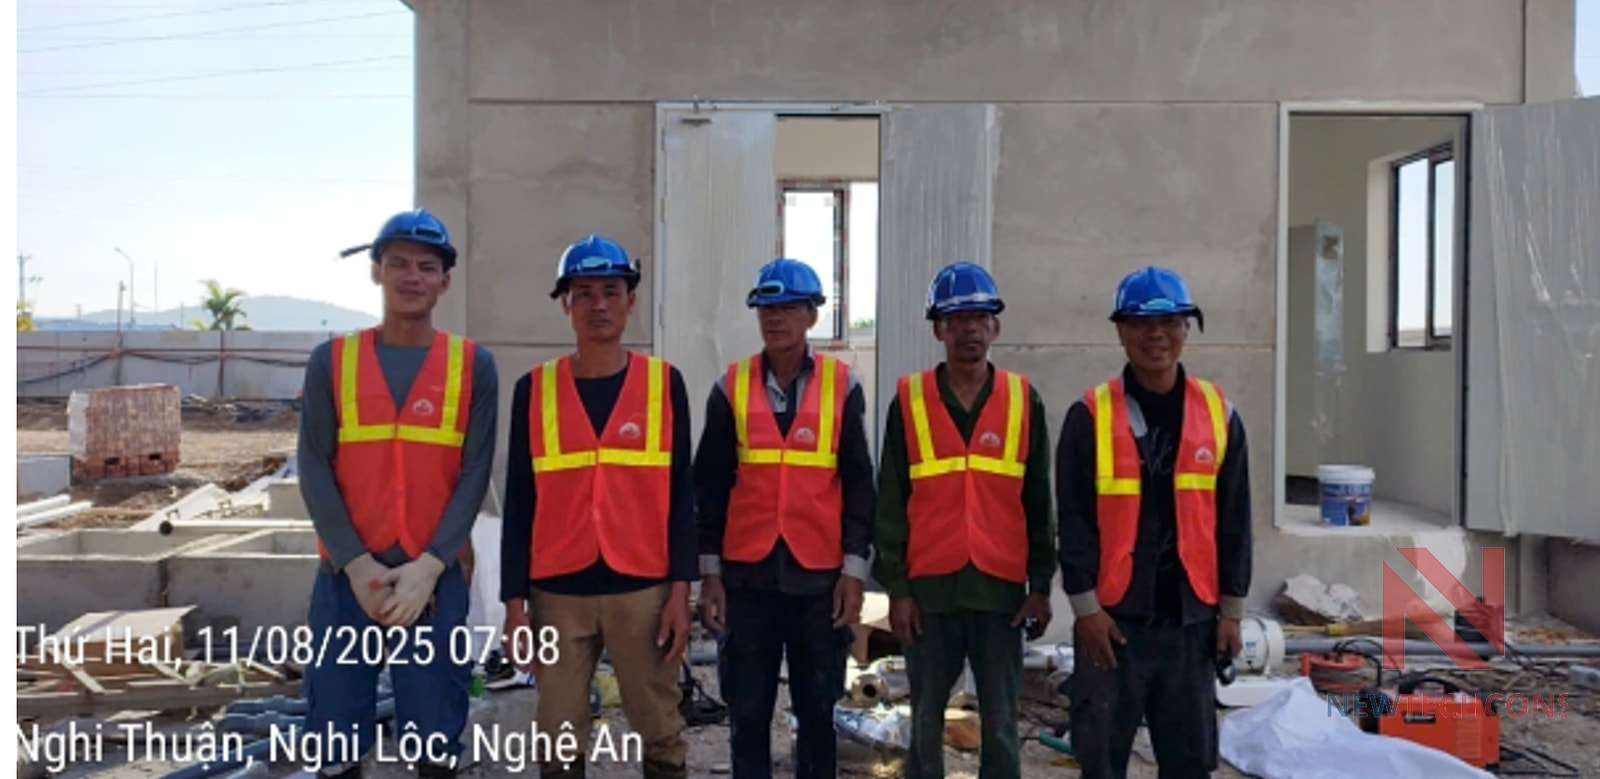
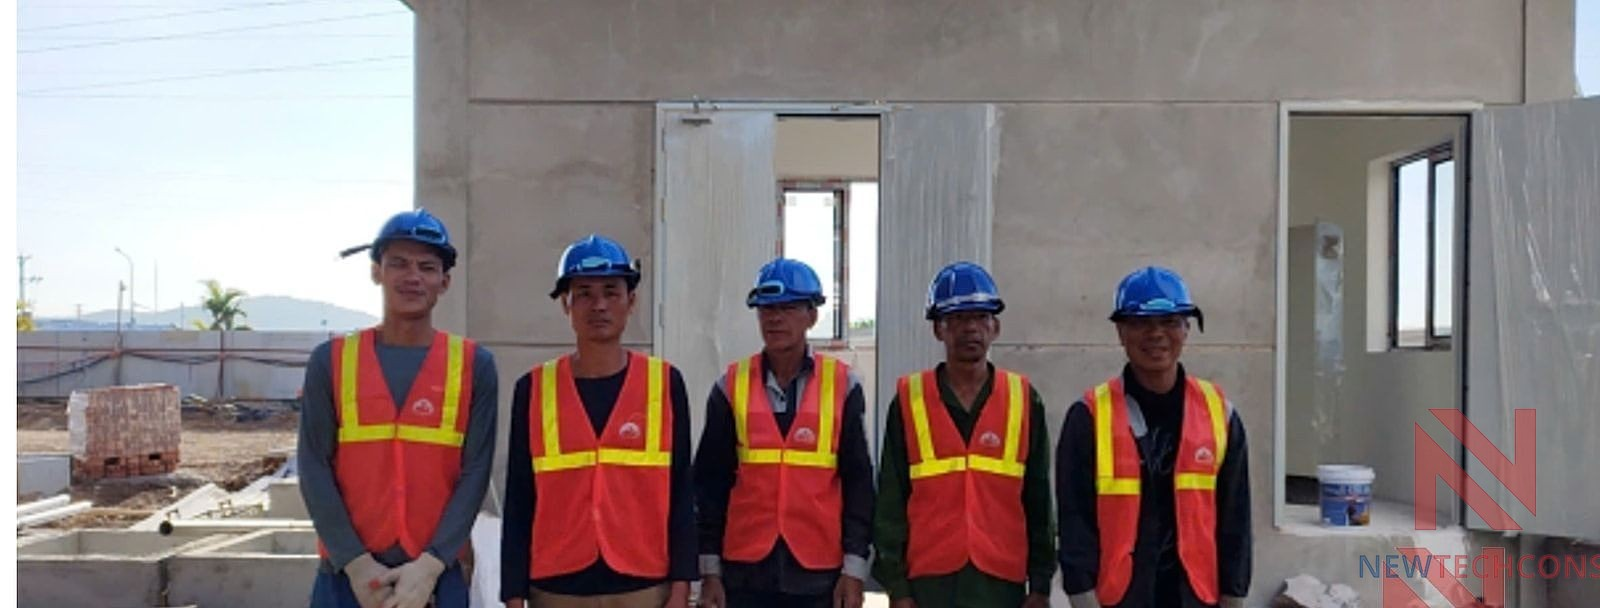
Khôi phục Thư viện ảnh bị mất do lỗi lưu objectlist qua /quan-tri
Khôi phục thuVienAnh cho 10 dự án bị lỗi xoá thành [] (Aeon Mall, Vigracela Tiên Sơn,
Arcana, An Đồng, nén gỗ Nghệ An, Goertek Vina, Giấy Thường Xuân, NADITEX, Topgoal,
Thuỷ sản Ngọc Sơn) — file ảnh gốc vẫn còn trên server, chỉ cần khôi phục tham chiếu.

Riêng 2 ảnh Topgoal và NADITEX: ảnh gốc còn dính mốc thời gian/định vị máy ảnh (ảnh
NADITEX còn bị lộn ngược 180°) nên xử lý lại — xoay đúng chiều, crop bỏ mốc thời
gian, làm nét, gắn lại watermark chuẩn trước khi khôi phục vào Thư viện ảnh.

diff --git a/src/content/du-an/xlnt-khu-do-thi-an-dong.md b/src/content/du-an/xlnt-khu-do-thi-an-dong.md
@@ -13,7 +13,9 @@ congNghe:
   - "Khử trùng trước khi xả ra hệ thống thoát nước đô thị"
 anhBia: "/images/uploads/1789726032319-z7185635179464-9eeade890b4213098304bf857d7201e7.jpg"
 anhBiaAlt: "Bể lắng tròn có cầu công tác trong hệ thống xử lý nước thải khu đô thị An Đồng"
-thuVienAnh: []
+thuVienAnh:
+  - duong_dan: "/images/du-an/an-dong-hoang-huy-anh-2.jpg"
+    alt: "Dòng nước sau xử lý chảy qua máng thu tại trạm xử lý nước thải khu đô thị An Đồng"
 noiBat: true
 thuTu: 3
 ---

diff --git a/src/content/du-an/txlnt-san-xuat-nha-may-arcana.md b/src/content/du-an/txlnt-san-xuat-nha-may-arcana.md
@@ -13,7 +13,9 @@ congNghe:
   - "Trung hoà & xử lý bùn"
 anhBia: "/images/uploads/1789726760756-1789616496528-2278372358357046712-4852401979920007281-e17d298262750c3f2197eca9ad7bafe2.jpg"
 anhBiaAlt: "Mô hình 3D hệ thống bồn xử lý nước thải sản xuất tại nhà máy Arcana"
-thuVienAnh: []
+thuVienAnh:
+  - duong_dan: "/images/du-an/arcana-anh-2.jpg"
+    alt: "Phối cảnh 3D toàn tuyến bồn xử lý nước thải nhà máy Arcana"
 noiBat: true
 thuTu: 6
 ---

diff --git a/src/content/du-an/xlnt-thuy-san-ngoc-son.md b/src/content/du-an/xlnt-thuy-san-ngoc-son.md
@@ -13,7 +13,9 @@ congNghe:
   - "Khử trùng"
 anhBia: "/images/uploads/1789726851438-7a0adea88fbd6de334ac.jpg"
 anhBiaAlt: "Hệ thống bể và đường ống xử lý nước thải chế biến hải sản Ngọc Sơn nhìn từ trên cao"
-thuVienAnh: []
+thuVienAnh:
+  - duong_dan: "/images/du-an/ngoc-son-anh-2.jpg"
+    alt: "Thi công kết cấu bể xử lý nước thải tại nhà máy chế biến hải sản Ngọc Sơn"
 noiBat: true
 thuTu: 5
 ---

diff --git a/src/content/du-an/xlnt-nha-may-giay-thuong-xuan.md b/src/content/du-an/xlnt-nha-may-giay-thuong-xuan.md
@@ -13,7 +13,9 @@ congNghe:
   - "Khử trùng"
 anhBia: "/images/uploads/1789811532549-img-2142.jpg"
 anhBiaAlt: "Dàn bơm định lượng hoá chất lắp trên tường tại trạm xử lý nước thải nhà máy Giấy Thường Xuân"
-thuVienAnh: []
+thuVienAnh:
+  - duong_dan: "/images/du-an/giay-thuong-xuan-anh-2.jpg"
+    alt: "Cầu công tác và hệ thống bể xử lý nước thải nhà máy Giấy Thường Xuân"
 noiBat: true
 thuTu: 7
 ---

diff --git a/src/content/du-an/xlnt-nha-may-naditex.md b/src/content/du-an/xlnt-nha-may-naditex.md
@@ -12,7 +12,9 @@ congNghe:
   - "Khử trùng"
 anhBia: "/images/uploads/1789825510873-1789825166891-1195297207156543023-1195297207156543023-2051d82f28effc7063f9a43df3e709ec.jpg"
 anhBiaAlt: "Thi công bể ngầm xử lý nước thải tại nhà máy NADITEX"
-thuVienAnh: []
+thuVienAnh:
+  - duong_dan: "/images/du-an/naditex-anh-2.jpg"
+    alt: "Thi công lắp đặt bể xử lý nước thải tại nhà máy NADITEX"
 noiBat: true
 thuTu: 10
 ---

diff --git a/src/content/du-an/xlnt-nha-may-dien-tu-goertek-vina.md b/src/content/du-an/xlnt-nha-may-dien-tu-goertek-vina.md
@@ -13,7 +13,9 @@ congNghe:
   - "Khử trùng"
 anhBia: "/images/uploads/1789726808555-8bd1d789409da2c3fb8c.jpg"
 anhBiaAlt: "Cụm bể xử lý nước thải với hệ thống bơm định lượng tại nhà máy Goertek Vina, KCN Quế Võ"
-thuVienAnh: []
+thuVienAnh:
+  - duong_dan: "/images/du-an/goertek-vina-anh-2.jpg"
+    alt: "Toàn cảnh bể xử lý nước thải sinh hoạt tại nhà máy Goertek Vina"
 noiBat: true
 thuTu: 4
 ---

diff --git a/src/content/du-an/he-thong-nuoc-sach-kcn-tien-son-vigracela.md b/src/content/du-an/he-thong-nuoc-sach-kcn-tien-son-vigracela.md
@@ -13,7 +13,9 @@ congNghe:
   - "Trạm bơm cấp nước"
 anhBia: "/images/uploads/1789825960095-img-20190125-103207.jpg"
 anhBiaAlt: "Cụm bồn lọc áp lực bằng thép trong hệ thống xử lý nước sạch KCN Tiên Sơn"
-thuVienAnh: []
+thuVienAnh:
+  - duong_dan: "/images/du-an/vigracela-tien-son-anh-2.jpg"
+    alt: "Khuôn viên trạm xử lý nước sạch KCN Tiên Sơn, Bắc Ninh"
 noiBat: true
 thuTu: 1
 ---

diff --git a/src/content/du-an/xlnt-nen-go-nghe-an.md b/src/content/du-an/xlnt-nen-go-nghe-an.md
@@ -13,7 +13,9 @@ congNghe:
   - "Khử trùng"
 anhBia: "/images/uploads/1789811789305-20200326-155209.jpg"
 anhBiaAlt: "Thi công lắp đặt bể xử lý nước thải ngầm tại nhà máy nén gỗ Nghệ An"
-thuVienAnh: []
+thuVienAnh:
+  - duong_dan: "/images/du-an/nen-go-nghe-an-anh-2.jpg"
+    alt: "Cụm thiết bị xử lý nước thải lắp đặt tại nhà máy nén gỗ Nghệ An"
 noiBat: true
 thuTu: 8
 ---

diff --git a/src/content/du-an/he-thong-nuoc-sach-aeon-mall.md b/src/content/du-an/he-thong-nuoc-sach-aeon-mall.md
@@ -13,7 +13,9 @@ congNghe:
   - "Trạm bơm cấp nước & PCCC"
 anhBia: "/images/uploads/1789723274627-aeon-mall-long-bien.jpg"
 anhBiaAlt: "Cụm bồn lọc nước sạch trên tầng mái công trình Aeon Mall"
-thuVienAnh: []
+thuVienAnh:
+  - duong_dan: "/images/du-an/aeon-mall-anh-2.jpg"
+    alt: "Phòng bơm chữa cháy và cấp nước tại công trình Aeon Mall"
 noiBat: true
 thuTu: 2
 ---

diff --git a/src/content/du-an/xlnt-nha-may-topgoal.md b/src/content/du-an/xlnt-nha-may-topgoal.md
@@ -13,7 +13,9 @@ congNghe:
   - "Khử trùng"
 anhBia: "/images/du-an/topgoal-anh-1.jpg"
 anhBiaAlt: "Công trình nhà máy Topgoal đang thi công tại KCN WHA Zone 1, Nghệ An"
-thuVienAnh: []
+thuVienAnh:
+  - duong_dan: "/images/du-an/topgoal-anh-2.jpg"
+    alt: "Đội thi công lắp đặt hệ thống xử lý nước thải tại nhà máy Topgoal"
 noiBat: true
 thuTu: 9
 ---
